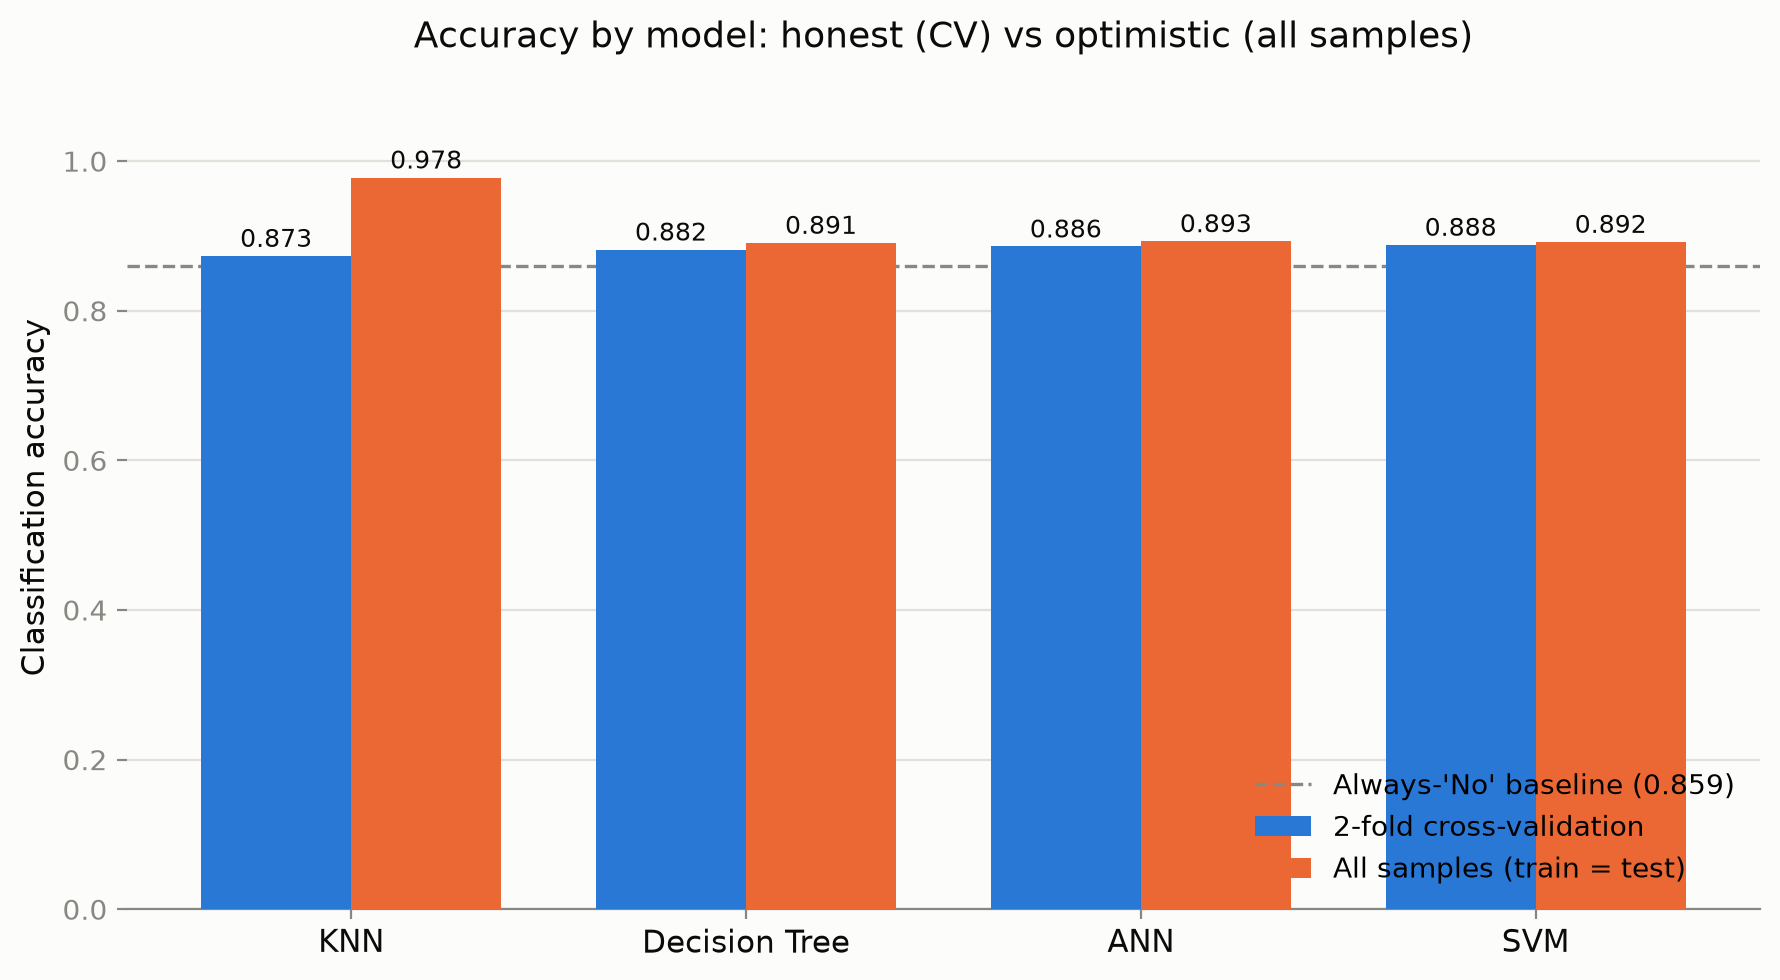
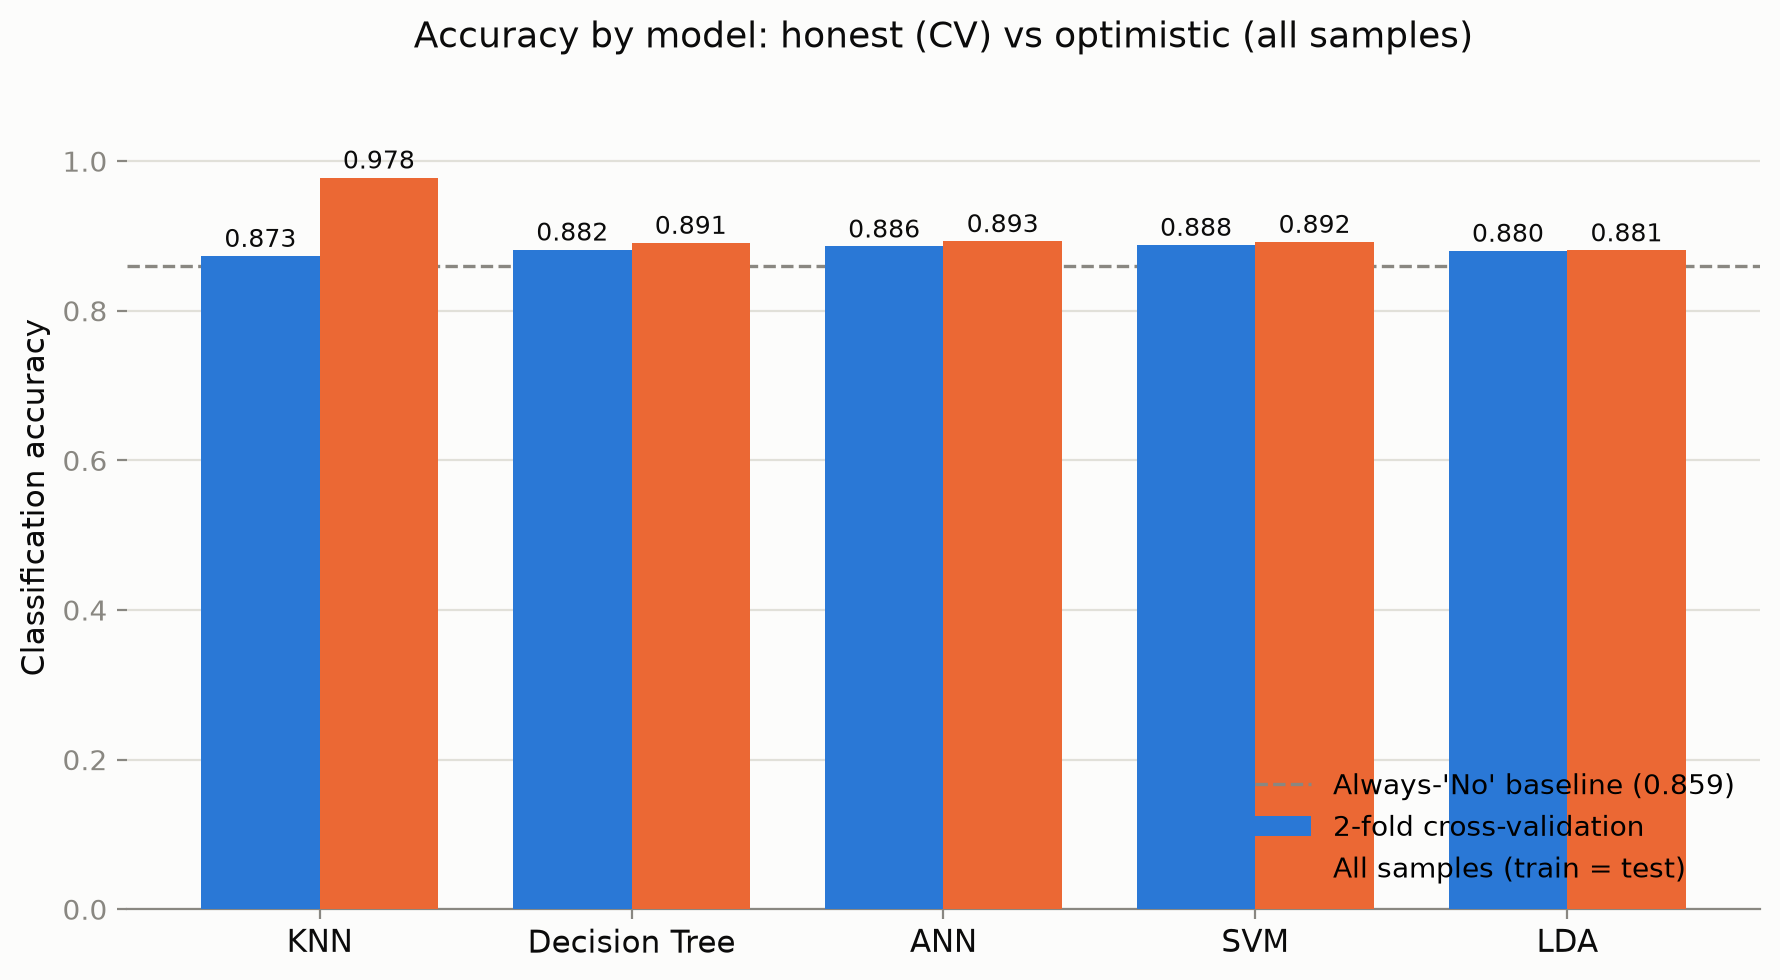
Add LDA model and update project results
This change adds Linear Discriminant Analysis as a fifth benchmark model and wires it into the shared evaluation pipeline. It updates the preprocessing setup to use dense one-hot encoding for compatibility with LDA, refreshes the comparison script and result summaries, and includes the new LDA metrics in the README and generated outputs. The project now reports a five-model comparison with refreshed charts, CSV summaries, and JSON result files.

diff --git a/prepare_data.py b/prepare_data.py
@@ -1,7 +1,8 @@
 """
 prepare_data.py
 ===============
-Data-preparation for the Financial Inclusion in East Africa
+Shared data-preparation and evaluation helpers for the Financial Inclusion
+in Africa mini-project.
 
 THE PROBLEM
 -------------------------------
@@ -10,12 +11,12 @@ using facts about them: which country they live in, whether they live in
 a rural or urban area, whether they own a cellphone, their age, education
 level, job type, and so on.
 
-This is a BINARY CLASSIFICATION problem: the model must place each
+This is called a BINARY CLASSIFICATION problem: the model must place each
 person into one of exactly two classes (has account / does not).
 
-Every model script (knn_model.py, decision_tree_model.py,
+Every model script in this project (knn_model.py, decision_tree_model.py,
 ann_model.py, svm_model.py) imports the functions in this file, so the
-data is prepared IDENTICALLY for every algorithm. Reason being if each
+data is prepared IDENTICALLY for every algorithm. That matters: if each
 model saw differently-prepared data, any accuracy differences could be
 caused by the preparation instead of the algorithm, and the comparison
 would be unfair.
@@ -25,7 +26,7 @@ WHAT "PREPARATION" MEANS HERE
 Machine-learning algorithms work on numbers, not words. Our dataset is
 mostly words ("Kenya", "Rural", "Self employed"...), so we must:
 
-1. ENCODE the categorical (word) columns.
+1. ONE-HOT ENCODE the categorical (word) columns.
    "country" with 4 possible values becomes 4 new columns of 0s and 1s:
    country_Kenya, country_Rwanda, country_Tanzania, country_Uganda.
    A Kenyan respondent gets 1 in the first column and 0 in the others.
@@ -43,7 +44,7 @@ mostly words ("Kenya", "Rural", "Self employed"...), so we must:
 HOW WE EVALUATE (2-fold cross-validation)
 -----------------------------------------
 Testing a model on the same data it was trained on is like grading students
-on the exact questions they revised: ie. scores look great but mean little.
+on the exact questions they revised: scores look great but mean little.
 
 2-fold cross-validation (CV) fixes this:
   * Split the data into two halves (fold A and fold B).
@@ -80,13 +81,12 @@ from sklearn.preprocessing import OneHotEncoder, StandardScaler
 # Constants shared by every model script
 # ---------------------------------------------------------------------------
 
-# Folder layout: the scripts are in the project root, alongside
-# the dataset and outputs folders:
-#   ProjectFolder/            <- these .py files live here
+# Folder layout: the scripts live at the project root, and the dataset
+# and outputs live in sibling folders right next to them:
+#   ProjectFolder/             <- Path(__file__).parent
+#   |-- prepare_data.py        <- these .py files
 #   |-- Dataset/financial_inclusion_africa.csv
-#   |-- Results/              <- created automatically on first run
-#
-# Path(__file__).parent is the folder holding this script.
+#   |-- Results/               <- created automatically on first run
 DATA_FILE = (Path(__file__).parent / "Dataset"
              / "financial_inclusion_africa.csv")
 
@@ -99,7 +99,7 @@ RESULTS_DIR = Path(__file__).parent / "Results"
 # results are reproducible - you and I will see identical accuracies.
 RANDOM_STATE = 42
 
-# Numeric columns: quantitative values.
+# Numeric columns: genuinely quantitative values.
 NUMERIC_COLS = ["household_size", "age_of_respondent"]
 
 # Categorical columns: labels with no numeric meaning. Note that "year"
@@ -128,7 +128,7 @@ def load_features_and_target():
     df = df.drop(columns=["uniqueid"])
 
     # The TARGET is what we want to predict. We convert the text labels
-    # to numbers: "Yes" -> 1, "No" -> 0.
+    # to numbers: "Yes" -> 1, "No" -> 0. Most sklearn tools expect this.
     y = df["bank_account"].map({"Yes": 1, "No": 0})
 
     # The FEATURES are every remaining column except the target itself.
@@ -151,7 +151,13 @@ def make_preprocessor():
     return ColumnTransformer(
         transformers=[
             ("numeric", StandardScaler(), NUMERIC_COLS),
-            ("categorical", OneHotEncoder(handle_unknown="ignore"),
+            # sparse_output=False returns an ordinary (dense) table of 0s
+            # and 1s rather than a memory-saving "sparse" one. Our data is
+            # small, so the memory cost is trivial, and some models - LDA
+            # in particular - require dense input. Using it everywhere
+            # keeps the preprocessing identical for all models.
+            ("categorical",
+             OneHotEncoder(handle_unknown="ignore", sparse_output=False),
              CATEGORICAL_COLS),
         ]
     )

diff --git a/lda_model.py b/lda_model.py
@@ -1,0 +1,70 @@
+"""
+lda_model.py
+============
+Linear Discriminant Analysis (LDA) on the Financial Inclusion in Africa
+dataset.
+
+HOW LDA WORKS (intuition)
+-------------------------
+Imagine every respondent as a point in a space with one axis per feature
+(after preprocessing, about 50 axes). The two classes - "has account" and
+"no account" - form two overlapping clouds of points in that space.
+
+LDA looks for the single direction along which, if you projected every
+point onto it, the two clouds would be pushed as far APART as possible
+while each cloud stays as TIGHT as possible. In other words, it finds the
+line that best separates the classes. A new person is then projected onto
+that line and labelled by which side of the dividing point they land on.
+
+How it works:
+  * BETWEEN-class spread: push the two class averages far apart.
+  * WITHIN-class spread: keep each class compact around its own average.
+LDA maximizes the ratio of the first to the second.
+
+HOW LDA DIFFERS FROM THE OTHER FOUR METHODS
+-------------------------------------------
+* It is a STATISTICAL method with a closed-form solution: there is no
+  iterative training loop and no hyperparameter to tune by trial. Given
+  the data, the answer is computed directly - so it is extremely fast.
+* It assumes each class follows a bell-shaped (Gaussian) spread with the
+  SAME shape, and draws a STRAIGHT (linear) boundary between them. When
+  that assumption roughly holds, LDA is remarkably strong for its
+  simplicity; when the real boundary is very curved, it underfits.
+* Because the boundary is a simple straight cut, LDA is one of the models
+  LEAST likely to overfit - expect its "all samples" accuracy and its
+  cross-validation accuracy to sit very close together.
+
+This makes LDA a useful BASELINE among the methods: if a far more complex
+model (the ANN, the SVM) cannot clearly beat this simple linear one, that
+tells you the signal in the data is mostly linear.
+
+KEY CHOICES MADE BELOW
+----------------------
+* solver="svd" : the default and most numerically stable solver. It works
+  well with many features and does not need to build certain large
+  matrices, so it copes fine with our ~50 one-hot columns.
+* No class weighting is used, to keep the comparison with KNN, the ANN,
+  the Decision Tree and the SVM fair. The class imbalance is examined
+  through the confusion matrix instead.
+* LDA does not strictly need feature scaling, but the shared preprocessing
+  in prepare_data.py scales anyway. This is harmless here and keeps every
+  model on an identical footing.
+"""
+
+from sklearn.discriminant_analysis import LinearDiscriminantAnalysis
+
+from prepare_data import evaluate_model
+
+
+def build_model():
+    """Create the LDA classifier with the choices explained above."""
+    return LinearDiscriminantAnalysis(
+        solver="svd",  # stable default; good with many features
+    )
+
+
+if __name__ == "__main__":
+    # evaluate_model runs the shared protocol: identical preprocessing,
+    # 2-fold stratified cross-validation, all-samples accuracy, and a
+    # JSON results file for the comparison script.
+    evaluate_model("LDA", build_model())

diff --git a/compare_models.py b/compare_models.py
@@ -50,8 +50,8 @@ from prepare_data import RESULTS_DIR, evaluate_model
 # Charts go in a subfolder of Results, next to the JSON and CSV outputs.
 FIGURES_DIR = RESULTS_DIR / "figures"
 
-# The four models, in the fixed order used everywhere in the report.
-MODELS = ["KNN", "Decision Tree", "ANN", "SVM"]
+# The five models, in the fixed order used everywhere in the report.
+MODELS = ["KNN", "Decision Tree", "ANN", "SVM", "LDA"]
 
 # ---------------------------------------------------------------------------
 # Chart colors (a colorblind-safe palette, validated for adjacent use)
@@ -79,8 +79,10 @@ def get_results(model_name):
             from decision_tree_model import build_model
         elif model_name == "ANN":
             from ann_model import build_model
-        else:
+        elif model_name == "SVM":
             from svm_model import build_model
+        else:
+            from lda_model import build_model
         evaluate_model(model_name, build_model())
     with open(path) as f:
         return json.load(f)
@@ -171,7 +173,9 @@ def chart_class_balance():
 
 def chart_confusion_matrices(results):
     """One 2x2 confusion matrix per model, from the CV predictions."""
-    fig, axes = plt.subplots(1, 4, figsize=(13, 3.6), dpi=200)
+    # One column per model, sized so any number of models fits neatly.
+    fig, axes = plt.subplots(1, len(MODELS), figsize=(2.6 * len(MODELS), 3.6),
+                             dpi=200)
     fig.patch.set_facecolor(SURFACE)
     cmap = matplotlib.colors.LinearSegmentedColormap.from_list("blues", BLUES)
 

diff --git a/README.md b/README.md
@@ -9,7 +9,7 @@
 
 ## The project
 
-This project examines financial inclusion in East Africa. The dataset contains survey data for 23,524 persons from Kenya, Rwanda, Tanzania, and Uganda. Each record shows the location, cellphone access, age, education level, and job type of one person. The target variable shows if the person has a bank account. Four machine-learning methods make this prediction: K-Nearest Neighbors (KNN), Decision Tree, Artificial Neural Network (ANN), and Support Vector Machine (SVM). The project compares the classification accuracy of the four methods.
+This project examines financial inclusion in East Africa. The dataset contains survey data for 23,524 persons from Kenya, Rwanda, Tanzania, and Uganda. Each record shows the location, cellphone access, age, education level, and job type of one person. The target variable shows if the person has a bank account. Five machine-learning methods make this prediction: K-Nearest Neighbors (KNN), Decision Tree, Artificial Neural Network (ANN), Support Vector Machine (SVM), and Linear Discriminant Analysis (LDA). The project compares the classification accuracy of the five methods.
 
 ## The approach
 
@@ -34,25 +34,27 @@ ProjectFolder/
 | `knn_model.py` | This script evaluates the KNN model. The model examines the 15 most similar persons and takes a distance-weighted vote. |
 | `decision_tree_model.py` | This script evaluates the Decision Tree model. The model learns a sequence of yes/no questions that divides the two classes. |
 | `ann_model.py` | This script evaluates the neural network. Two hidden layers with 64 and 32 neurons learn non-linear patterns in the data. |
-| `svm_model.py` | This script evaluates the SVM. The model finds the widest boundary between the two classes. This script is the slowest of the four. |
-| `compare_models.py` | This script collects the results of the four models. It writes a summary table and three charts to the Results folder. Run this script last. |
+| `svm_model.py` | This script evaluates the SVM. The model finds the widest boundary between the two classes. This script is the slowest of the five. |
+| `lda_model.py` | This script evaluates the LDA model. The method finds the straight line that best separates the two classes. It is a fast statistical baseline. |
+| `compare_models.py` | This script collects the results of the five models. It writes a summary table and three charts to the Results folder. Run this script last. |
 
 ## How to run the project
 
 1. Install Python 3.10 or a later version.
-2. Install the packages pandas, scikit-learn, and matplotlib.
+2. Install the packages with `pip install -r requirements.txt`.
 3. Open a terminal in the Scripts folder.
 4. Run `python knn_model.py`.
 5. Run `python decision_tree_model.py`.
 6. Run `python ann_model.py`.
 7. Run `python svm_model.py`.
-8. Run `python compare_models.py`.
+8. Run `python lda_model.py`.
+9. Run `python compare_models.py`.
 
 NOTE: If a results file is not present, `compare_models.py` runs the related model automatically.
 
 ## Results summary
 
-The SVM had the best cross-validation accuracy (0.8881). The ANN was second (0.8859), and the Decision Tree was third (0.8818). The KNN model had the lowest score (0.8733) and the largest memorization gap. The full results are in the Results folder.
+The SVM had the best cross-validation accuracy (0.8881). The ANN was second (0.8859), and the Decision Tree was third (0.8818). The LDA model scored 0.8802, and the KNN model was last (0.8733). The KNN model also had the largest memorization gap. The LDA model had the smallest gap, because a straight-line boundary cannot memorize the data. The LDA model also found the most true account holders. The full results are in the Results folder.
 
 ## Data source
 
